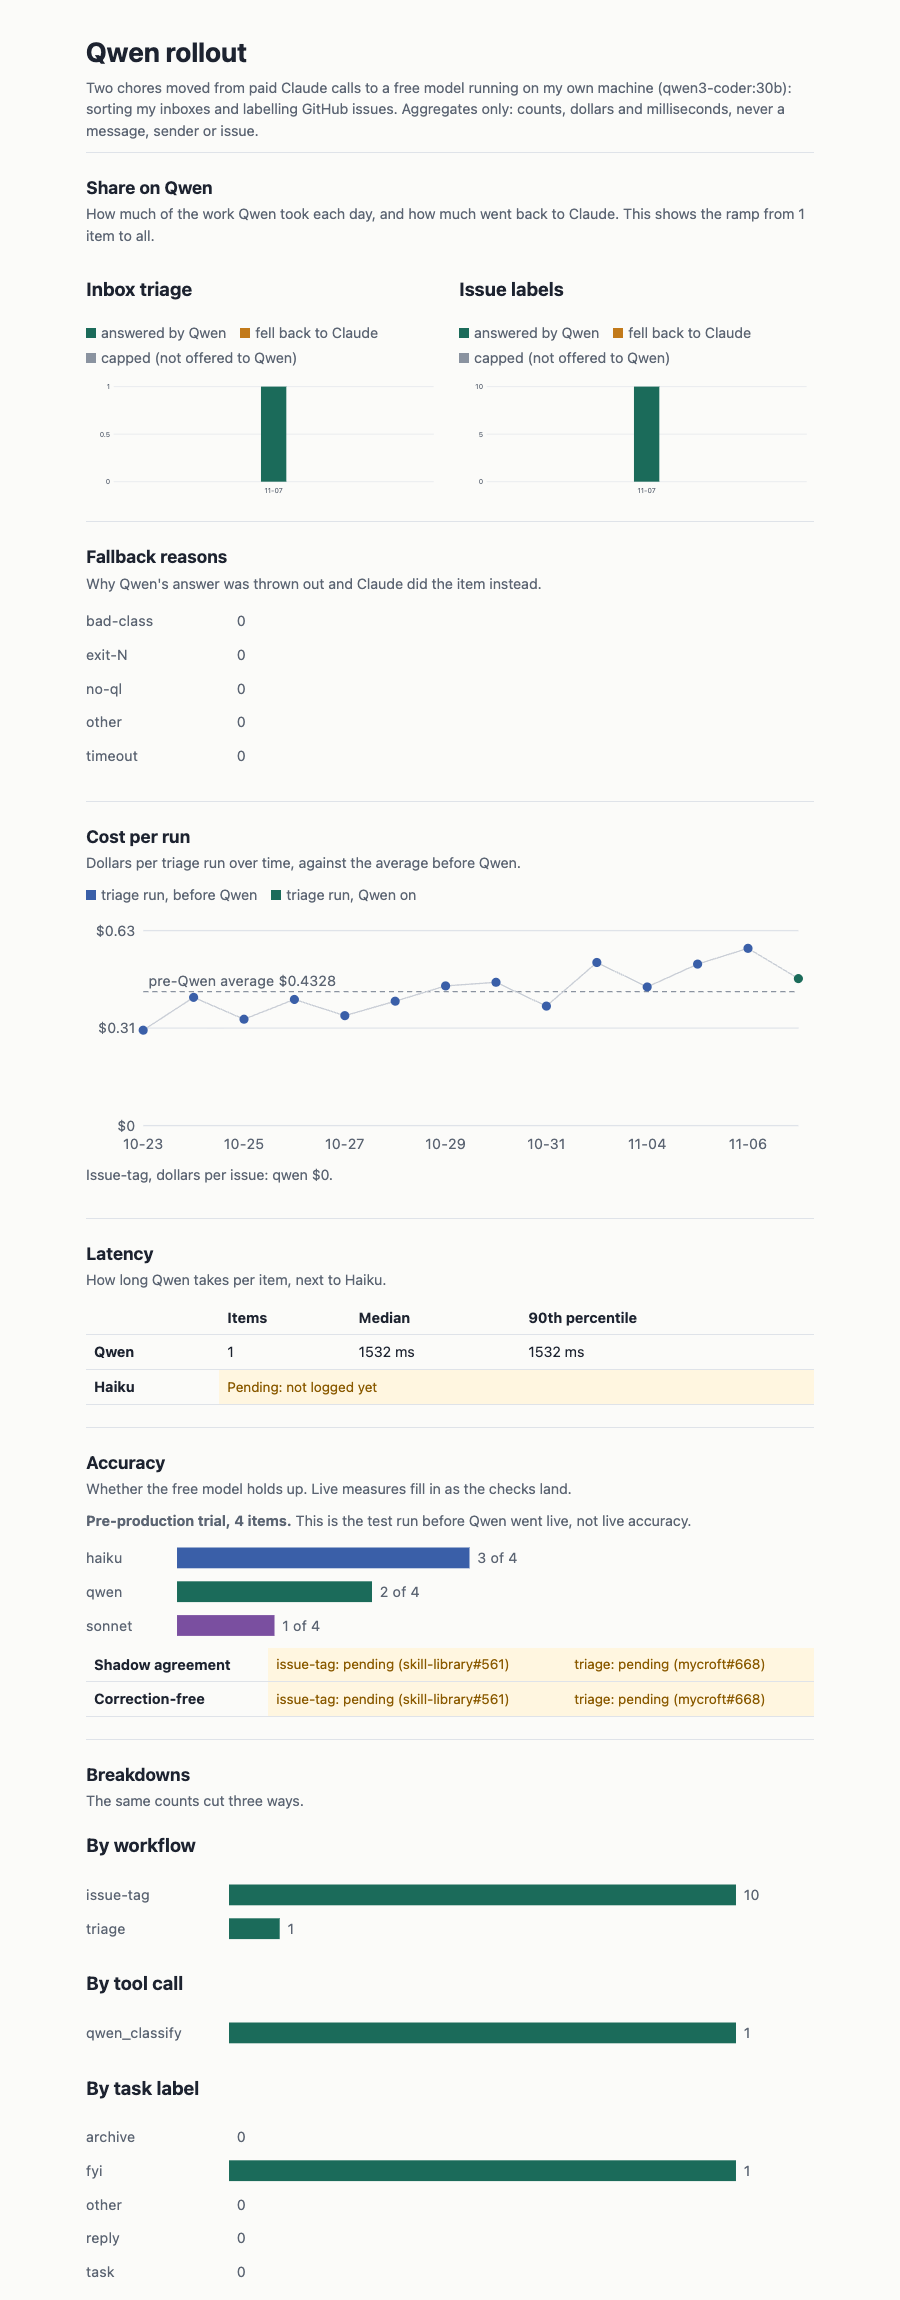
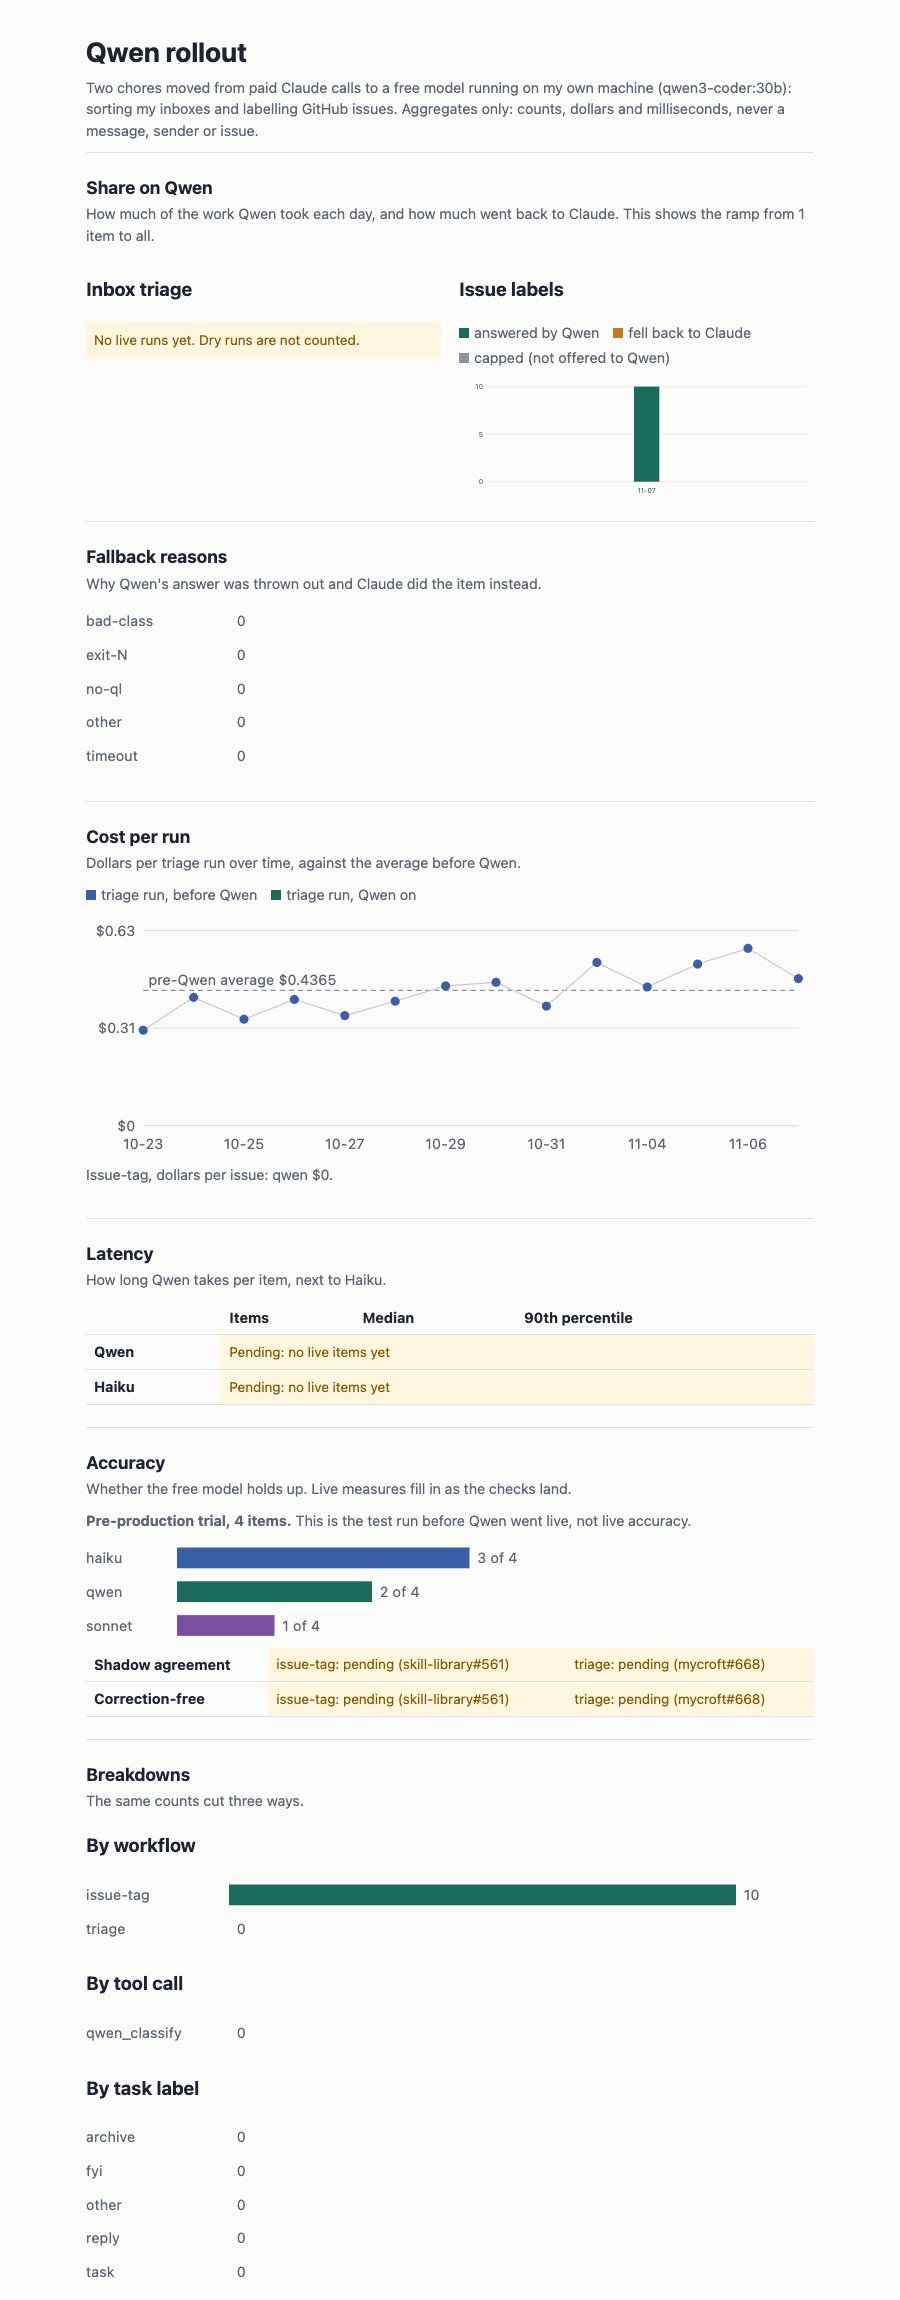
qwen-state: triage counts live (mode=create) runs only; dry runs and their audit rows dropped
Claude-Session: https://claude.ai/code/session_01CdKiT4uM8E66mncXeX95U1

diff --git a/bin/qwen-state.py b/bin/qwen-state.py
@@ -55,15 +55,30 @@ def day_of_run(path):
     return f"{m[1]}-{m[2]}-{m[3]}" if m else None
 
 
+def live_stems():
+    """Run stems whose sidecar is a live run (mode == "create") that used Qwen. Dry runs are dropped from the public page."""
+    out = set()
+    for p in glob.glob(f"{RUNS}/*.json"):
+        d = _load(p)
+        if d.get("mode") == "create" and isinstance(d.get("qwen"), dict):
+            out.add(os.path.basename(p)[:-len(".json")])
+    return out
+
+
+def live_audits():
+    live = live_stems()
+    return [p for p in sorted(glob.glob(f"{RUNS}/*.audit.jsonl")) if os.path.basename(p)[:-len(".audit.jsonl")] in live]
+
+
 def triage():
     share = defaultdict(lambda: {"answered": 0, "fell_back": 0, "capped": 0})
     reasons = {k: 0 for k in REASONS}
     labels = {k: 0 for k in sorted(LABELS) + ["other"]}
     lat = []
+    live = live_stems()
     for p in sorted(glob.glob(f"{RUNS}/*.json")):
-        try: d = json.load(open(p))
-        except (OSError, ValueError): continue
-        q = d.get("qwen")
+        d = _load(p)
+        q = d.get("qwen") if os.path.basename(p)[:-len(".json")] in live else None
         dy = day_of_run(p)
         if not isinstance(q, dict) or not dy: continue
         seen, ans, esc = int(q.get("seen") or 0), int(q.get("qwen") or 0), int(q.get("escalated") or 0)
@@ -72,7 +87,7 @@ def triage():
         share[dy]["capped"] += max(seen - ans - esc, 0)
         for r, n in (q.get("reasons") or {}).items():
             reasons[reason_bucket(r)] += int(n or 0)
-    for p in sorted(glob.glob(f"{RUNS}/*.audit.jsonl")):
+    for p in live_audits():
         for r in rows(p):
             if r.get("tool") != "qwen_classify": continue
             if r.get("escalated"): continue
@@ -97,8 +112,7 @@ def costs():
 
 
 def qwen_run_days():
-    return {day_of_run(p) for p in glob.glob(f"{RUNS}/*.json")
-            if isinstance(_load(p).get("qwen"), dict)}
+    return {day_of_run(f"{RUNS}/{st}.json") for st in live_stems()}
 
 
 def _load(p):
@@ -143,10 +157,11 @@ def tag_accuracy():
 def triage_accuracy(answered):
     """mycroft#670 rows in cos/runs/*.audit.jsonl. Returns (agreement %, correction-free %); None until rows exist.
     Per-message fields (id, issue, labels) are never read into the output."""
-    files = sorted(glob.glob(f"{RUNS}/*.audit.jsonl"))
+    files = live_audits()  # pairs only from live runs
+    corr = f"{RUNS}/corrections.audit.jsonl"  # corrections have no run of their own
     match = [r["match"] for p in files for r in rows(p) if r.get("tool") == "qwen_pair" and isinstance(r.get("match"), bool)]
-    has_corr_file = os.path.exists(f"{RUNS}/corrections.audit.jsonl")
-    fixed = len({r.get("id") for p in files for r in rows(p)
+    has_corr_file = os.path.exists(corr)
+    fixed = len({r.get("id") for p in files + [corr] for r in rows(p)
                  if r.get("tool") == "qwen_correction" and "qwen" in str(r.get("model_of_origin", "")).lower()})
     agree = round(100 * sum(match) / len(match), 1) if match else None
     clean = round(100 * max(answered - fixed, 0) / answered, 1) if has_corr_file and answered else None
